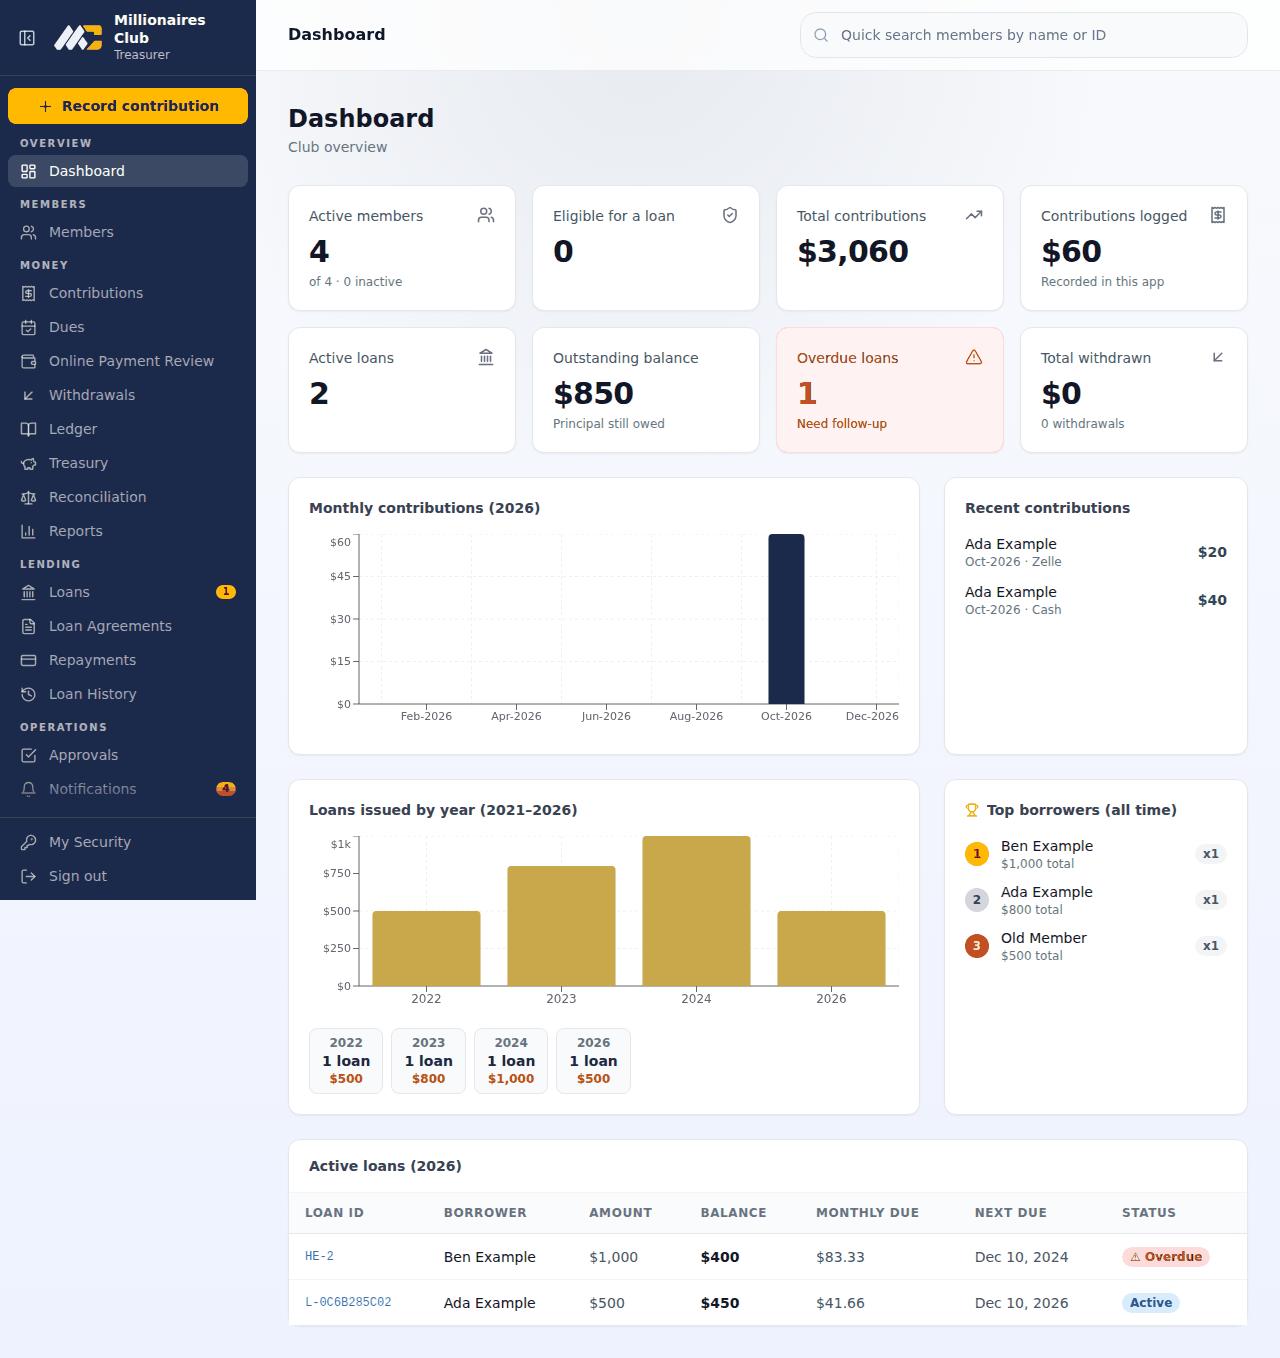
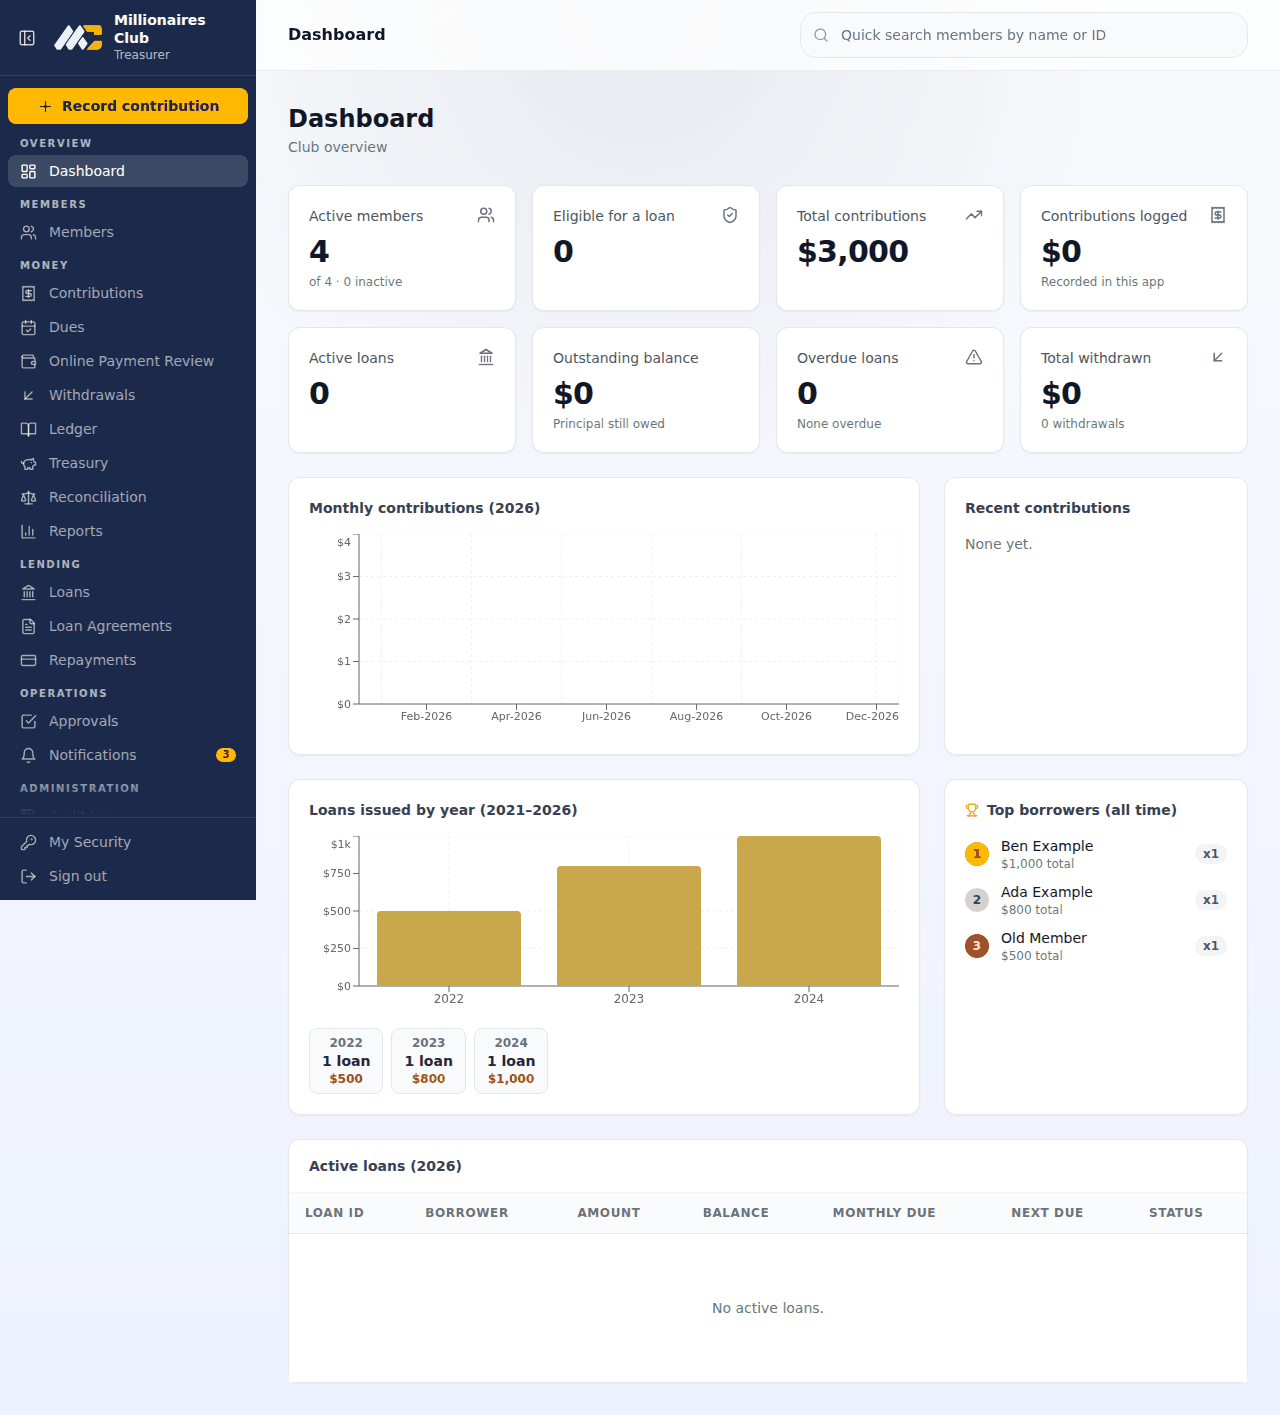
Fold Loan History into Loans as a tab; Lending has three menu entries
Loans now has two tabs, Current loans and 2021–2025 records (the old
/loan-history page, same URL and permission). The menu keeps Loans
highlighted on either tab, so Lending reads Loans · Loan Agreements ·
Repayments.

On the records tab: distinct chart axis labels, "1 loan" instead of
"1 loans", and a subtitle that no longer claims records up to the
current year. The menu badge reads "1 item needs attention".

Browser test for the three-entry menu and the tabs; screenshots and
docs updated.

Claude-Session: https://claude.ai/code/session_01VQjKCXC3v9KDw22CUs3t6A

diff --git a/src/components/staff/nav.ts b/src/components/staff/nav.ts
@@ -1,10 +1,11 @@
 import {
-  LayoutDashboard, Users, Receipt, Landmark, CreditCard, History, ArrowDownLeft, Bell, FileText,
+  LayoutDashboard, Users, Receipt, Landmark, CreditCard, ArrowDownLeft, Bell, FileText,
   Shield, Wallet, ScrollText, KeyRound, BookOpen, CheckSquare, CalendarCheck, PiggyBank, Scale, BarChart3, type LucideIcon,
 } from 'lucide-react'
 import type { Permission } from '@/modules/permissions'
 
-export type StaffNavItem = { href: string; label: string; icon: LucideIcon; permission: Permission | null }
+/** `also`: other paths that belong to this entry (a tab inside it), highlighted and permitted the same way. */
+export type StaffNavItem = { href: string; label: string; icon: LucideIcon; permission: Permission | null; also?: string[] }
 
 export type StaffNavGroup = 'Overview' | 'Members' | 'Money' | 'Lending' | 'Operations' | 'Administration' | 'Account'
 export type StaffNavBadge = 'overdueLoans' | 'pendingPayments' | 'notificationTasks' | 'approvalsToDecide'
@@ -27,10 +28,9 @@ export const STAFF_NAV: GroupedStaffNavItem[] = [
   { group: 'Money',          href: '/treasury',       label: 'Treasury',              icon: PiggyBank,       permission: 'treasury.read' },
   { group: 'Money',          href: '/reconciliation', label: 'Reconciliation',        icon: Scale,           permission: 'ledger.read' },
   { group: 'Money',          href: '/reports',        label: 'Reports',               icon: BarChart3,       permission: 'ledger.read' },
-  { group: 'Lending',        href: '/loans',          label: 'Loans',                 icon: Landmark,        permission: 'loans.read', badge: 'overdueLoans' },
+  { group: 'Lending',        href: '/loans',          label: 'Loans',                 icon: Landmark,        permission: 'loans.read', badge: 'overdueLoans', also: ['/loan-history'] },
   { group: 'Lending',        href: '/agreements',     label: 'Loan Agreements',       icon: FileText,        permission: 'agreements.read' },
   { group: 'Lending',        href: '/loan-payments',  label: 'Repayments',            icon: CreditCard,      permission: 'loan_payments.read' },
-  { group: 'Lending',        href: '/loan-history',   label: 'Loan History',          icon: History,         permission: 'loans.read' },
   { group: 'Operations',     href: '/approvals',      label: 'Approvals',             icon: CheckSquare,     permission: 'approvals.view', badge: 'approvalsToDecide' },
   { group: 'Operations',     href: '/notifications',  label: 'Notifications',         icon: Bell,            permission: 'notifications.read', badge: 'notificationTasks' },
   { group: 'Administration', href: '/settings/staff', label: 'Staff & Roles',         icon: Shield,          permission: 'staff.read' },
@@ -48,10 +48,21 @@ export function visibleNav(permissions: readonly string[]) {
  * members.read). Null for pages outside the menu.
  */
 export function pagePermission(path: string): Permission | null {
-  const item = STAFF_NAV
-    .filter((entry) => path === entry.href || path.startsWith(`${entry.href}/`))
+  const match = STAFF_NAV
+    .flatMap((entry) => [entry.href, ...(entry.also ?? [])].map((href) => ({ href, permission: entry.permission })))
+    .filter(({ href }) => isWithin(path, href))
     .sort((a, b) => b.href.length - a.href.length)[0]
-  return item?.permission ?? null
+  return match?.permission ?? null
+}
+
+/** The path is the page itself or one below it. */
+export function isWithin(path: string, href: string): boolean {
+  return path === href || path.startsWith(`${href}/`)
+}
+
+/** The menu entry is the current one (its own page, a page below it, or one of its tabs). */
+export function navItemActive(item: StaffNavItem, path: string): boolean {
+  return [item.href, ...(item.also ?? [])].some((href) => isWithin(path, href))
 }
 
 /** Where to send someone after sign-in: their first permitted screen. */

diff --git a/src/app/(admin)/loan-history/page.tsx b/src/app/(admin)/loan-history/page.tsx
@@ -3,8 +3,9 @@ import { useEffect, useState, useCallback } from 'react'
 import Link from 'next/link'
 import { BarChart, Bar, XAxis, YAxis, Tooltip, ResponsiveContainer, CartesianGrid } from 'recharts'
 import { Trophy, TrendingUp } from 'lucide-react'
-import { Card, Table, EmptyState, LoanStatusBadge, PageHeader, FilterBar, SearchInput, Select, Badge } from '@/components/ui'
-import { fmt$, fmtDate } from '@/lib/utils'
+import { Card, Table, EmptyState, LoanStatusBadge, PageHeader, FilterBar, SearchInput, Select, Badge, plural } from '@/components/ui'
+import LoanTabs from '@/components/staff/LoanTabs'
+import { fmt$, fmtCompact$, fmtDate } from '@/lib/utils'
 
 const START_YEAR = 2021
 
@@ -34,10 +35,11 @@ export default function LoanHistoryPage() {
   return (
     <div className="p-4 sm:p-8">
       <PageHeader
-        title="Loan History"
-        sub={`${totalLoans} loans · ${fmt$(totalLent)} lent ${START_YEAR}–${currentYear}`}
+        title="Loans"
+        sub={`Older loans · ${plural(totalLoans, 'loan')} · ${fmt$(totalLent)} lent`}
         action={<Link href="/loan-history/review" className="inline-flex min-h-6 items-center text-sm text-indigo-700 underline">Link older loans to members</Link>}
       />
+      <LoanTabs current="/loan-history" />
 
       <div className="grid grid-cols-1 lg:grid-cols-3 gap-6 mb-6">
         {/* Year-by-year chart */}
@@ -50,7 +52,7 @@ export default function LoanHistoryPage() {
               <BarChart data={data.byYear} margin={{ top: 0, right: 0, left: -10, bottom: 0 }}>
                 <CartesianGrid strokeDasharray="3 3" stroke="#f0f0f0" />
                 <XAxis dataKey="year" tick={{ fontSize: 12 }} />
-                <YAxis tick={{ fontSize: 11 }} tickFormatter={v => `$${(v/1000).toFixed(0)}k`} />
+                <YAxis tick={{ fontSize: 11 }} tickFormatter={fmtCompact$} />
                 <Tooltip
                   formatter={(v: number) => [fmt$(v), 'Total lent']}
                   labelFormatter={l => `Year ${l}`}
@@ -65,7 +67,7 @@ export default function LoanHistoryPage() {
               {data.byYear.map((r: any) => (
                 <button key={r.year} onClick={() => setYear(year === String(r.year) ? '' : String(r.year))}
                   className={`px-3 py-1.5 rounded-lg text-xs font-semibold transition-colors ${year === String(r.year) ? 'bg-[#1B2A4A] text-white' : 'bg-gray-100 text-gray-600 hover:bg-gray-200'}`}>
-                  {r.year} · {r._count?.id || 0} loans · {fmt$(r._sum.loanAmount)}
+                  {r.year} · {plural(r._count?.id || 0, 'loan')} · {fmt$(r._sum.loanAmount)}
                 </button>
               ))}
             </div>
@@ -88,7 +90,7 @@ export default function LoanHistoryPage() {
                 }`}>{i + 1}</span>
                 <div className="flex-1 min-w-0">
                   <p className="text-sm font-medium text-gray-900 truncate">{r.borrowerName}{r.borrowerId && <span className="ml-1 text-xs font-normal text-gray-400">{r.borrowerId}</span>}</p>
-                  <p className="text-xs text-gray-400">{r._count?.id || 0} loans · {fmt$(r._sum.loanAmount)}</p>
+                  <p className="text-xs text-gray-400">{plural(r._count?.id || 0, 'loan')} · {fmt$(r._sum.loanAmount)}</p>
                 </div>
                 <Badge variant={(r._count?.id || 0) >= 3 ? 'red' : (r._count?.id || 0) >= 2 ? 'amber' : 'gray'}>
                   ×{r._count?.id || 0}

diff --git a/e2e/07-usability.spec.ts b/e2e/07-usability.spec.ts
@@ -26,6 +26,28 @@ test('staff: the whole menu fits a laptop screen, and the current page is marked
   await close()
 })
 
+test('staff: Lending has three entries; the older records are a tab under Loans', async ({ browser }) => {
+  const { page, errors, close } = await signedIn(browser, 'treasurer')
+  await page.goto('/loans')
+  const menu = page.getByRole('navigation', { name: 'Staff navigation' })
+  // Once it loads, the Loans entry also announces its overdue count ("Loans 1 item needs attention").
+  const loans = menu.getByRole('link', { name: /^Loans\b/ })
+  await expect(loans).toBeVisible()
+  for (const name of ['Loan Agreements', 'Repayments']) await expect(menu.getByRole('link', { name, exact: true })).toBeVisible()
+  await expect(menu.getByRole('link', { name: 'Loan History' })).toHaveCount(0)
+
+  const tabs = page.getByRole('navigation', { name: 'Loans' })
+  await expect(tabs.getByRole('link', { name: 'Current loans' })).toHaveAttribute('aria-current', 'page')
+  await tabs.getByRole('link', { name: '2021–2025 records' }).click()
+  await expect(page).toHaveURL(/\/loan-history$/)
+  await expect(tabs.getByRole('link', { name: '2021–2025 records' })).toHaveAttribute('aria-current', 'page')
+  // Still under Loans in the menu.
+  await expect(loans).toHaveAttribute('aria-current', 'page')
+  await expect(page.getByRole('link', { name: 'Link older loans to members' })).toBeVisible()
+  expect(errors).toEqual([])
+  await close()
+})
+
 test('staff: every search box and filter has a name', async ({ browser }) => {
   const { page, errors, close } = await signedIn(browser, 'treasurer')
   const lists: [string, string, string][] = [

diff --git a/src/components/layout/Sidebar.tsx b/src/components/layout/Sidebar.tsx
@@ -8,6 +8,7 @@ import { LogOut, Menu, PanelLeftClose, PanelLeftOpen, Plus, X } from 'lucide-rea
 import { cn } from '@/lib/utils'
 import {
   STAFF_NAV_GROUPS,
+  navItemActive,
   visibleNav,
   type GroupedStaffNavItem,
   type StaffNavBadge,
@@ -30,7 +31,7 @@ function badgeLabel(count: number) {
 // Defined at module level: a component declared inside another is a new
 // type on every render, so React would remount it (and its links) each time.
 function NavLink({ item, compact, path, badges }: { item: GroupedStaffNavItem; compact: boolean; path: string; badges: BadgeCounts }) {
-  const active = path === item.href || path.startsWith(`${item.href}/`)
+  const active = navItemActive(item, path)
   const count = item.badge ? badges[item.badge] : 0
   const Icon = item.icon
   return (
@@ -53,7 +54,7 @@ function NavLink({ item, compact, path, badges }: { item: GroupedStaffNavItem; c
         <span className={cn(
           'inline-flex min-w-5 items-center justify-center rounded-full bg-amber-400 px-1.5 py-0.5 text-[10px] font-bold leading-none text-amber-950',
           compact && 'absolute right-0.5 top-0.5 min-w-4 px-1'
-        )} aria-label={`${count} items need attention`}>
+        )} aria-label={count === 1 ? '1 item needs attention' : `${count} items need attention`}>
           {badgeLabel(count)}
         </span>
       )}

diff --git a/src/components/staff/LoanTabs.tsx b/src/components/staff/LoanTabs.tsx
@@ -1,0 +1,28 @@
+import Link from 'next/link'
+import { cn } from '@/lib/utils'
+
+const TABS = [
+  { href: '/loans', label: 'Current loans' },
+  { href: '/loan-history', label: '2021–2025 records' },
+] as const
+
+/** The two views under Loans in the menu: today's loans and the older records. */
+export default function LoanTabs({ current }: { current: (typeof TABS)[number]['href'] }) {
+  return (
+    <nav aria-label="Loans" className="mb-5 flex gap-1 border-b border-gray-200">
+      {TABS.map((tab) => (
+        <Link
+          key={tab.href}
+          href={tab.href}
+          aria-current={tab.href === current ? 'page' : undefined}
+          className={cn(
+            '-mb-px inline-flex min-h-10 items-center border-b-2 px-3 text-sm',
+            tab.href === current ? 'border-[#1B2A4A] font-semibold text-gray-900' : 'border-transparent text-gray-600 hover:text-gray-900',
+          )}
+        >
+          {tab.label}
+        </Link>
+      ))}
+    </nav>
+  )
+}

diff --git a/src/app/(admin)/loans/page.tsx b/src/app/(admin)/loans/page.tsx
@@ -7,6 +7,7 @@ import { Card, Table, EmptyState, LoanStatusBadge, Badge, Button, Modal, Input, 
          PageHeader, FilterBar, SearchInput } from '@/components/ui'
 import { fmt$, fmtDate } from '@/lib/utils'
 import { useStaff } from '@/components/staff/StaffContext'
+import LoanTabs from '@/components/staff/LoanTabs'
 
 // Shown on wide screens only, so balance, next due date and status stay in view on a laptop.
 const SECONDARY = 'hidden 2xl:table-cell'
@@ -68,6 +69,7 @@ export default function LoansPage() {
         sub={`${loans.filter(l => l.status === 'Active').length} active · ${fmt$(totalOutstanding)} outstanding`}
         action={can('loans.create') ? <Button onClick={() => setShowNew(true)}><Plus size={15} /> New loan</Button> : undefined}
       />
+      <LoanTabs current="/loans" />
 
       <FilterBar>
         <SearchInput value={search} onChange={setSearch} placeholder="Search borrower or loan ID…" />

diff --git a/src/app/(admin)/loan-history/review/ReviewView.tsx b/src/app/(admin)/loan-history/review/ReviewView.tsx
@@ -50,7 +50,7 @@ export default function ReviewView({ canLink }: { canLink: boolean }) {
       <PageHeader
         title="Link older loans"
         sub="Migration step M9: the 2021–2025 loans, linked to members by member ID. Once linked, nothing matches names again."
-        action={<Link href="/loan-history" className="inline-flex min-h-6 items-center text-sm text-indigo-700 underline">← Loan History</Link>}
+        action={<Link href="/loan-history" className="inline-flex min-h-6 items-center text-sm text-indigo-700 underline">← 2021–2025 records</Link>}
       />
       {error && <p role="alert" className="rounded-lg bg-red-50 px-3 py-2 text-sm text-red-700">{error}</p>}
       {message && <p role="status" className="rounded-lg bg-emerald-50 px-3 py-2 text-sm text-emerald-800">{message}</p>}

diff --git a/e2e/01-pages.spec.ts b/e2e/01-pages.spec.ts
@@ -12,7 +12,9 @@ import { expectNoOverflow, signedIn } from './helpers'
 const SUB_PAGES: Partial<Record<StaffRole, string[]>> = { treasurer: ['/ledger/opening', '/ledger/comparison', '/ledger/reads', '/loan-history/review'] }
 
 function screensFor(role: StaffRole): string[] {
-  return [...visibleNav([...permissionsForRoles([STAFF[role].role])]).map((item) => item.href), ...(SUB_PAGES[role] ?? [])]
+  const nav = visibleNav([...permissionsForRoles([STAFF[role].role])])
+  // Tabs inside a menu entry (Loans → 2021–2025 records) are screens too.
+  return [...nav.flatMap((item) => [item.href, ...(item.also ?? [])]), ...(SUB_PAGES[role] ?? [])]
 }
 
 for (const role of Object.keys(STAFF) as StaffRole[]) {

diff --git a/src/components/layout/AdminTopbar.tsx b/src/components/layout/AdminTopbar.tsx
@@ -11,7 +11,7 @@ const pageTitles: Record<string, string> = {
   '/loans': 'Loans',
   '/agreements': 'Loan Agreements',
   '/loan-payments': 'Repayments',
-  '/loan-history': 'Loan History',
+  '/loan-history': 'Loans',
   '/withdrawals': 'Withdrawals',
   '/dues': 'Dues',
   '/treasury': 'Treasury',

diff --git a/docs/architecture/11-migration-roadmap-testing.md b/docs/architecture/11-migration-roadmap-testing.md
@@ -15,7 +15,7 @@
 | **M6 Read cutover** ✅ built, switched off | Dashboards, statements, eligibility and loan balances read from the ledger when `LEDGER_READS=true` (`src/modules/accounting/reads.ts`). Each figure keeps its meaning; only the source changes. *Ledger → Ledger reads* puts every such figure from both sources side by side before the switch is turned on | Board reviews the first ledger-based monthly report | `LEDGER_READS=false` |
 | **M7 Retire legacy** | Stop writing legacy balance fields; drop them after one more period close; keep `YearlyTotal` as a read-only historical memo | Schema no longer contains stored balances | Restore from the M6 snapshot |
 | **M8 Identity merge** ✅ built | Admin and portal credentials → `users` (bcrypt hashes carry over unchanged); new members get sequential numbers. Built as one `User` table with `kind` staff or member: staff ids are kept, so approvals and audit entries still name the same people; each member with a portal password gets a member user. An officer who is also a member has two logins (D-17); the database stops a member user from holding staff roles, sessions or recovery codes. Member numbers are allocated under a lock (`src/modules/membership/numbers.ts`) | All logins go through `users` | Keep the old tables until verified. The `Admin` table is renamed, not copied; the portal fields on `Member` stay, frozen, until production is checked |
-| **M9 Loan unification** ✅ built; run it **before** M4 | `HistoricalLoan` linked by **member ID**; the loans still owing move to `loans` (origin `legacy_import`). Exact matches are automatic; the 2 duplicate-name pairs and 12 unmatched names go to a Treasurer review queue. The 30 "Active" historical loans are imported with **Treasurer-confirmed** balances. Tooling: *Loan History → Link older loans* (`src/modules/loans/history.ts`). Paid-off loans stay in the read-only table, linked; a balance still owed becomes a live loan with one brought-forward repayment, so the ledger opens it at the confirmed figure. Opening balances are refused until every Active loan is confirmed, as of a day before the cutover | No name-based matching remains in code | The legacy table is kept read-only; nothing is posted to the ledger until M4 |
+| **M9 Loan unification** ✅ built; run it **before** M4 | `HistoricalLoan` linked by **member ID**; the loans still owing move to `loans` (origin `legacy_import`). Exact matches are automatic; the 2 duplicate-name pairs and 12 unmatched names go to a Treasurer review queue. The 30 "Active" historical loans are imported with **Treasurer-confirmed** balances. Tooling: *Loans → 2021–2025 records → Link older loans* (`src/modules/loans/history.ts`). Paid-off loans stay in the read-only table, linked; a balance still owed becomes a live loan with one brought-forward repayment, so the ledger opens it at the confirmed figure. Opening balances are refused until every Active loan is confirmed, as of a day before the cutover | No name-based matching remains in code | The legacy table is kept read-only; nothing is posted to the ledger until M4 |
 
 ### Opening-balance recipe (M4)
 

diff --git a/README.md b/README.md
@@ -329,14 +329,14 @@ Loans made **before** this change keep working the old way (hand-kept balance an
 
 ### Older loans (2021–2025): linked by member ID (M9)
 
-The 2021–2025 loan records name the borrower and co-signer but do not say which member they are. **Loan History → Link older loans** (`/loan-history/review`) links them by member ID, once, and nothing matches names afterwards:
+The 2021–2025 loan records name the borrower and co-signer but do not say which member they are. **Loans → 2021–2025 records → Link older loans** (`/loan-history/review`) links them by member ID, once, and nothing matches names afterwards:
 
 - **Exact matches**, in one click: a name links automatically only when exactly one member has it (legal name or nickname, ignoring case, punctuation and anything in brackets). Never a partial match.
 - **Names to review**: a name several members share is decided loan by loan; a name no member has is linked to the right member or recorded as *no member record* (someone who has left, a co-signer who was never a member). One decision can cover every loan with the same name.
 - **Loans still marked Active**: the Treasurer confirms what each still owed at the end of a day **before the cutover**, from the club's own records. A balance still owed moves the loan to the live loans (marked *moved from the 2021–2025 records*). Everything repaid before that day is recorded as one *brought forward* repayment, so the ledger opens the loan at exactly the confirmed figure. A loan the old `sync-active-historical-loans.js` script already copied is brought to the same figure, and moved, with its repayments, to the members you linked (the script may have picked the wrong one of a shared name). A balance of $0 records the loan as repaid.
 - **Opening balances cannot be proposed** until every loan marked Active has a confirmed balance, and confirming is closed once they are posted.
 
-The member page, the portal's history and the Loan History use these links. Before, the portal matched names, so a member could see the older loans of anyone sharing their name.
+The member page, the portal's history and the 2021–2025 records tab use these links. Before, the portal matched names, so a member could see the older loans of anyone sharing their name.
 
 ## Treasury: cash reserve and lending capacity
 

diff --git a/docs/architecture/12-open-questions.md b/docs/architecture/12-open-questions.md
@@ -20,7 +20,7 @@ Grouped by who can answer them. Items marked ★ block the start of the financia
 | Q-7 ★ | How does collector cash flow today: who collects, how often it is deposited, and who checks it? | Cash-custody design (F-11) |
 | Q-8 | Are application fees actually collected? Where are they recorded today? | They are missing from the system (F-5); affects the opening surplus |
 | Q-9 | Have late fees ever been charged? Should they be? | Policy says $5; the code never applies it |
-| Q-10 ★ | What is the true status and balance of the 30 historical loans marked "Active" ($70,343)? Has `sync-active-historical-loans.js` been run in production? | Up to $70k of receivables unaccounted for or double-counted (F-8). *Answered on Loan History → Link older loans (M9): the Treasurer confirms each balance before opening balances* |
+| Q-10 ★ | What is the true status and balance of the 30 historical loans marked "Active" ($70,343)? Has `sync-active-historical-loans.js` been run in production? | Up to $70k of receivables unaccounted for or double-counted (F-8). *Answered on Loans → 2021–2025 records → Link older loans (M9): the Treasurer confirms each balance before opening balances* |
 | Q-11 | Who absorbs Stripe processing fees: the member (surcharge) or the club? | Ledger posting and member-facing price. Surcharging has its own rules |
 | Q-12 ★ | Who are the officers for maker/checker? At least three distinct active people are needed (Finance, Treasurer, Board) | D-06 cannot work with fewer |
 | Q-13 | Is an accountant engaged, or can one be? | Chart of accounts sign-off; member-capital classification |
